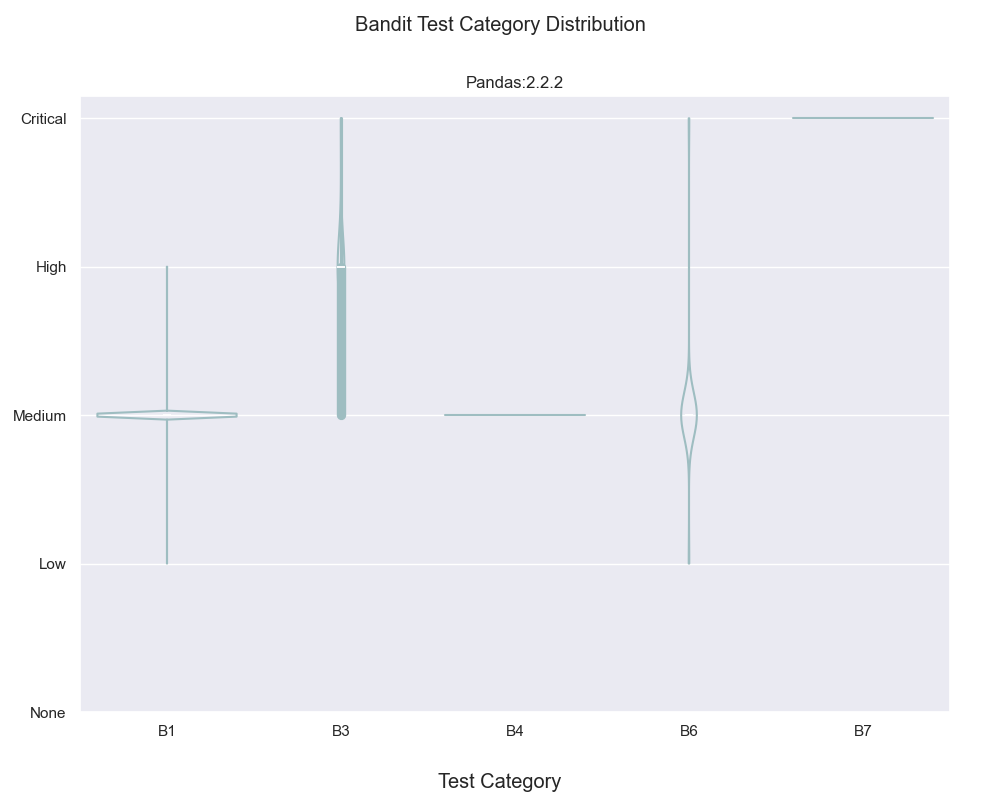
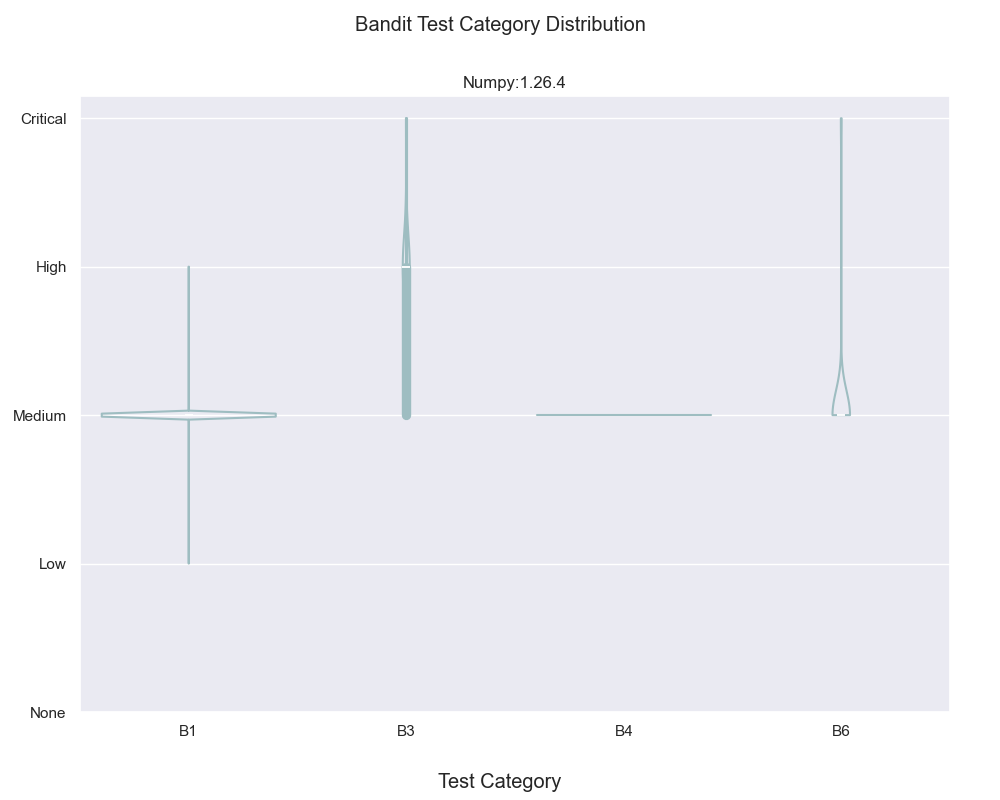
Update includes

diff --git a/output/tables/issue-distribution.tex b/output/tables/issue-distribution.tex
@@ -5,39 +5,21 @@
 \toprule
 Project & Release & Test Id & Count & Low & Medium & High & Critical \\
 \midrule
-\texttt{pandas} & \texttt{pytz} & \texttt{B101} & $5$ ($0.16\%$) & $0$ & $0$ & $5$ ($0.16\%$) & $0$ \\
-\texttt{pandas} & \texttt{pandas} & \texttt{B101} & $455$ ($14.16\%$) & $0$ & $0$ & $455$ ($14.16\%$) & $0$ \\
-\texttt{pandas} & \texttt{numpy} & \texttt{B101} & $2396$ ($74.57\%$) & $0$ & $0$ & $2396$ ($74.57\%$) & $0$ \\
-\texttt{pandas} & \texttt{numpy} & \texttt{B102} & $3$ ($0.09\%$) & $0$ & $3$ ($0.09\%$) & $0$ & $0$ \\
-\texttt{pandas} & \texttt{numpy} & \texttt{B105} & $1$ ($0.03\%$) & $0$ & $0$ & $0$ & $1$ ($0.03\%$) \\
-\texttt{pandas} & \texttt{pandas} & \texttt{B110} & $3$ ($0.09\%$) & $0$ & $0$ & $3$ ($0.09\%$) & $0$ \\
-\texttt{pandas} & \texttt{numpy} & \texttt{B110} & $23$ ($0.72\%$) & $0$ & $0$ & $23$ ($0.72\%$) & $0$ \\
-\texttt{pandas} & \texttt{pandas} & \texttt{B301} & $2$ ($0.06\%$) & $0$ & $2$ ($0.06\%$) & $0$ & $0$ \\
-\texttt{pandas} & \texttt{numpy} & \texttt{B301} & $12$ ($0.37\%$) & $0$ & $12$ ($0.37\%$) & $0$ & $0$ \\
-\texttt{pandas} & \texttt{numpy} & \texttt{B307} & $44$ ($1.37\%$) & $0$ & $44$ ($1.37\%$) & $0$ & $0$ \\
-\texttt{pandas} & \texttt{numpy} & \texttt{B310} & $2$ ($0.06\%$) & $0$ & $2$ ($0.06\%$) & $0$ & $0$ \\
-\texttt{pandas} & \texttt{pandas} & \texttt{B310} & $1$ ($0.03\%$) & $0$ & $1$ ($0.03\%$) & $0$ & $0$ \\
-\texttt{pandas} & \texttt{numpy} & \texttt{B311} & $52$ ($1.62\%$) & $0$ & $0$ & $52$ ($1.62\%$) & $0$ \\
-\texttt{pandas} & \texttt{pandas} & \texttt{B314} & $2$ ($0.06\%$) & $0$ & $2$ ($0.06\%$) & $0$ & $0$ \\
-\texttt{pandas} & \texttt{pandas} & \texttt{B318} & $1$ ($0.03\%$) & $0$ & $1$ ($0.03\%$) & $0$ & $0$ \\
-\texttt{pandas} & \texttt{pandas} & \texttt{B320} & $4$ ($0.12\%$) & $0$ & $4$ ($0.12\%$) & $0$ & $0$ \\
-\texttt{pandas} & \texttt{numpy} & \texttt{B324} & $4$ ($0.12\%$) & $4$ ($0.12\%$) & $0$ & $0$ & $0$ \\
-\texttt{pandas} & \texttt{pandas} & \texttt{B403} & $5$ ($0.16\%$) & $0$ & $0$ & $5$ ($0.16\%$) & $0$ \\
-\texttt{pandas} & \texttt{pytz} & \texttt{B403} & $2$ ($0.06\%$) & $0$ & $0$ & $2$ ($0.06\%$) & $0$ \\
-\texttt{pandas} & \texttt{numpy} & \texttt{B403} & $11$ ($0.34\%$) & $0$ & $0$ & $11$ ($0.34\%$) & $0$ \\
-\texttt{pandas} & \texttt{numpy} & \texttt{B404} & $40$ ($1.24\%$) & $0$ & $0$ & $40$ ($1.24\%$) & $0$ \\
-\texttt{pandas} & \texttt{pandas} & \texttt{B404} & $3$ ($0.09\%$) & $0$ & $0$ & $3$ ($0.09\%$) & $0$ \\
-\texttt{pandas} & \texttt{pandas} & \texttt{B405} & $6$ ($0.19\%$) & $0$ & $0$ & $6$ ($0.19\%$) & $0$ \\
-\texttt{pandas} & \texttt{pandas} & \texttt{B408} & $1$ ($0.03\%$) & $0$ & $0$ & $1$ ($0.03\%$) & $0$ \\
-\texttt{pandas} & \texttt{pandas} & \texttt{B410} & $9$ ($0.28\%$) & $0$ & $0$ & $9$ ($0.28\%$) & $0$ \\
-\texttt{pandas} & \texttt{numpy} & \texttt{B602} & $3$ ($0.09\%$) & $3$ ($0.09\%$) & $0$ & $0$ & $0$ \\
-\texttt{pandas} & \texttt{numpy} & \texttt{B603} & $63$ ($1.96\%$) & $0$ & $0$ & $63$ ($1.96\%$) & $0$ \\
-\texttt{pandas} & \texttt{pandas} & \texttt{B603} & $15$ ($0.47\%$) & $0$ & $0$ & $15$ ($0.47\%$) & $0$ \\
-\texttt{pandas} & \texttt{numpy} & \texttt{B605} & $3$ ($0.09\%$) & $1$ ($0.03\%$) & $0$ & $2$ ($0.06\%$) & $0$ \\
-\texttt{pandas} & \texttt{numpy} & \texttt{B607} & $25$ ($0.78\%$) & $0$ & $0$ & $25$ ($0.78\%$) & $0$ \\
-\texttt{pandas} & \texttt{pandas} & \texttt{B607} & $11$ ($0.34\%$) & $0$ & $0$ & $11$ ($0.34\%$) & $0$ \\
-\texttt{pandas} & \texttt{pandas} & \texttt{B608} & $4$ ($0.12\%$) & $0$ & $0$ & $0$ & $4$ ($0.12\%$) \\
-\texttt{pandas} & \texttt{pandas} & \texttt{B701} & $2$ ($0.06\%$) & $2$ ($0.06\%$) & $0$ & $0$ & $0$ \\
+\texttt{numpy} & \texttt{numpy} & \texttt{B101} & $2396$ ($89.34\%$) & $0$ & $0$ & $2396$ ($89.34\%$) & $0$ \\
+\texttt{numpy} & \texttt{numpy} & \texttt{B102} & $3$ ($0.11\%$) & $0$ & $3$ ($0.11\%$) & $0$ & $0$ \\
+\texttt{numpy} & \texttt{numpy} & \texttt{B105} & $1$ ($0.04\%$) & $0$ & $0$ & $0$ & $1$ ($0.04\%$) \\
+\texttt{numpy} & \texttt{numpy} & \texttt{B110} & $23$ ($0.86\%$) & $0$ & $0$ & $23$ ($0.86\%$) & $0$ \\
+\texttt{numpy} & \texttt{numpy} & \texttt{B301} & $12$ ($0.45\%$) & $0$ & $12$ ($0.45\%$) & $0$ & $0$ \\
+\texttt{numpy} & \texttt{numpy} & \texttt{B307} & $44$ ($1.64\%$) & $0$ & $44$ ($1.64\%$) & $0$ & $0$ \\
+\texttt{numpy} & \texttt{numpy} & \texttt{B310} & $2$ ($0.07\%$) & $0$ & $2$ ($0.07\%$) & $0$ & $0$ \\
+\texttt{numpy} & \texttt{numpy} & \texttt{B311} & $52$ ($1.94\%$) & $0$ & $0$ & $52$ ($1.94\%$) & $0$ \\
+\texttt{numpy} & \texttt{numpy} & \texttt{B324} & $4$ ($0.15\%$) & $4$ ($0.15\%$) & $0$ & $0$ & $0$ \\
+\texttt{numpy} & \texttt{numpy} & \texttt{B403} & $11$ ($0.41\%$) & $0$ & $0$ & $11$ ($0.41\%$) & $0$ \\
+\texttt{numpy} & \texttt{numpy} & \texttt{B404} & $40$ ($1.49\%$) & $0$ & $0$ & $40$ ($1.49\%$) & $0$ \\
+\texttt{numpy} & \texttt{numpy} & \texttt{B602} & $3$ ($0.11\%$) & $3$ ($0.11\%$) & $0$ & $0$ & $0$ \\
+\texttt{numpy} & \texttt{numpy} & \texttt{B603} & $63$ ($2.35\%$) & $0$ & $0$ & $63$ ($2.35\%$) & $0$ \\
+\texttt{numpy} & \texttt{numpy} & \texttt{B605} & $3$ ($0.11\%$) & $1$ ($0.04\%$) & $0$ & $2$ ($0.07\%$) & $0$ \\
+\texttt{numpy} & \texttt{numpy} & \texttt{B607} & $25$ ($0.93\%$) & $0$ & $0$ & $25$ ($0.93\%$) & $0$ \\
 \bottomrule
 \end{tabular}
 \end{table}

diff --git a/src/depsec/utils/giterate.py b/src/depsec/utils/giterate.py
@@ -136,6 +136,25 @@ def find_main_package(project: Project, repo_path: str | Path):
     return main_package
 
 
+def get_includes(project_name: str, repo_path: Path):
+    """
+    Get the includes for a project
+    """
+    repo_path = Path(repo_path).absolute()
+    # get files and directories in the repository
+    fildirs = [ f for f in glob.glob(f"{repo_path}/*", recursive=False) ]
+    includes = ['src/']
+    for fildir in fildirs:
+        fildir = Path(fildir)
+        stem = fildir.stem
+        if stem.lower() in project_name.lower():
+            if fildir.is_file():
+                includes.append(fildir.name)
+            else:
+                includes.append(f"{fildir.name}/")
+    return includes
+
+
 def run_analysis(project: Project, repos_dir: Path, *v_or_rel: str | Release, temp_dir: Path = '/tmp', lizard: bool = True, bandit: bool = True, limit: int = None):
     """
     Analyse a project with lizard and bandit
@@ -144,9 +163,17 @@ def run_analysis(project: Project, repos_dir: Path, *v_or_rel: str | Release, te
     project_name = project.name.lower()
     tag_regex = project.tag_regex
 
+    platform = project.platform.lower()
+
+    # this should be done already, connect to the repo
+    repo, repo_path = clone_repo(project, repos_dir)
+    if repo is None:
+        logger.error(f"Failed to clone {project_name}, skipping...")
+        return
+
     includes = project.includes
     if type(includes) == str:
-        includes = [ incl.strip() for incl in includes.split(',') ]
+        includes = get_includes(project_name, repo_path)
     elif includes is None:
         # follows standard Python package structure
         includes = ['src/', f"{project_name}/", f"{project_name}.py"]
@@ -154,11 +181,6 @@ def run_analysis(project: Project, repos_dir: Path, *v_or_rel: str | Release, te
     if type(excludes) == str:
         excludes = [ excl.strip() for excl in excludes.split(',') ]
 
-    # this should be done already, connect to the repo
-    repo, repo_path = clone_repo(project, repos_dir)
-    if repo is None:
-        logger.error(f"Failed to clone {project_name}, skipping...")
-        return
     follows_standard = False
     for incl in includes:
         if (repo_path / incl).exists():
@@ -199,13 +221,13 @@ def run_analysis(project: Project, repos_dir: Path, *v_or_rel: str | Release, te
     if not project.excludes and excludes:
         project.excludes = ','.join(list(map(str, excludes)))
     project.save()
-    count = 0
+    processed_count = 0
     for version in sorted(version_iter, key=semver.parse, reverse=True):
-        count += 1
-        if limit and count > limit:
+        processed_count += 1
+        print(f"Processing {project_name}:{version} ({processed_count}/{len(version_iter) if limit is None else limit})...")
+        if (limit and limit > 0) and processed_count > limit:
             logger.debug(f"Limit reached, stopping at {limit} versions")
             break
-        print(f"Processing {project_name}:{version}...")
         release: Release = rels.get(version)
         if release is None:
             logger.warning(f"Release '{version}' for {project_name} not found by metadata, ignoring")
@@ -232,7 +254,8 @@ def run_analysis(project: Project, repos_dir: Path, *v_or_rel: str | Release, te
             release.includes = incl_str
         release.save()
         if lizard:
-            res = run_lizard(repo_path, includes, excludes)
+            file_ext = '.js|.ts' if project.platform == 'npm' else '.py'
+            res = run_lizard(repo_path, includes, excludes, file_ext=file_ext)
             nloc = res.get('nloc')
             avg_nloc = res.get('nloc_average')
             avg_ccn = res.get('ccn_average')
@@ -245,6 +268,9 @@ def run_analysis(project: Project, repos_dir: Path, *v_or_rel: str | Release, te
             release.ccn_average = round(avg_ccn, 2) if avg_ccn is not None else None
             logger.info(f"{project_name}:{version}, files: {files_counted}, NLOC {nloc}")
         if bandit:
+            if platform != 'pypi':
+                logger.error(f"Error: Bandit is only supported for PyPI projects, skipping {project_name}:{version}")
+                continue
             reports = BanditReport.select().where(BanditReport.release == release)
             for report in reports:
                 report.delete_instance()

diff --git a/src/depsec/aggregator.py b/src/depsec/aggregator.py
@@ -244,7 +244,7 @@ class Aggregator:
         # Query libraries.io if the package is not in the database
         logger.debug(f"Querying libraries.io for {project_name}")
         time.sleep(1)
-        result: dict = self.libraries.query_package(project_name)
+        result: dict = self.libraries.query_package(project_name, platform=platform)
         if result is None:
             logger.error(f"Project {project_name} not found in libraries.io")
             return None
@@ -300,6 +300,8 @@ class Aggregator:
             project.latest_release = latest_release.version
             project.save()
         self._verify_dates(project)
+        if platform not in self.__analysed_projects:
+            self.__analysed_projects[platform] = {}
         self.__analysed_projects[platform][name] = project_to_config(project)
         return project
     
@@ -1921,12 +1923,13 @@ class Aggregator:
                 cve_ids.add(cve.cve_id)
         return cves
     
-    def _analyse(self, project: str | Project, *releases: str | Release,  platform: str="pypi", prompt: bool = True, limit: int = None) -> dict:
+    def _analyse(self, project: str | Project, *releases: str | Release,  platform: str="pypi", prompt: bool = True, limit: int = None, lizard: bool = True, bandit: bool = True) -> dict:
         """
         Statically analyses a project's releases
 
         project: str | Project: The project name or object
         """
+        platform = project.platform if type(project) == Project else platform
         project = self.get_project(project, platform)
         # clone the repository
         repo, repo_path = giterate.clone_repo(project, self.__repos_dir)
@@ -1945,7 +1948,7 @@ class Aggregator:
             if update:
                 project.tag_regex = tag_regex
                 project.save()
-        giterate.run_analysis(project, self.__repos_dir, *releases, limit=limit)
+        giterate.run_analysis(project, self.__repos_dir, *releases, limit=limit, lizard=lizard, bandit=bandit)
 
     def get_all_deps(self, project: str | Project, platform: str="pypi") -> dict:
         """
@@ -1966,16 +1969,25 @@ class Aggregator:
                 results.append(depproj)
         return results
     
-    def _analyse_deps(self, project: str | Project, platform: str="pypi", prompt: bool = True, limit: int = None) -> dict:
+    def _analyse_all(self, project: str | Project, platform: str="pypi", prompt: bool = True, limit: int = None) -> dict:
         """
         Statically analyses a project's dependencies
 
         project: str | Project: The project name or object
         """
         project = self.get_project(project, platform)
-        deps = self.get_all_deps(project)
+        rel = self.get_release(project, platform=platform, analysed=True)
+        if rel is not None and (not prompt or input('Re-analyse project? [Y/n] ').lower() != 'n'):
+            ag._analyse(project, platform=platform, prompt=prompt, limit=limit)
+        deps = self.get_dependencies(project, platform=platform)
         for dep in deps:
-            self._analyse(dep.name, platform=dep.platform, prompt=prompt, limit=limit)
+            rel = self.get_release(dep.name, dep.version, platform=dep.platform, requirements=dep.requirements, analysed=True)
+            if rel is not None:
+                print(f"Project seems to be analysed: {project.name}:{rel.version} has {rel.nloc_total} NLOC")
+                if not prompt or input('Skip? [Y/n] ').lower() != 'n':
+                    continue
+            rels = self.get_releases(dep.name, platform=dep.platform, requirements=dep.requirements)
+            self._analyse(dep.name, *rels, platform=project.platform, prompt=prompt, limit=limit)
     
     def _search_vendor(self, project: Project | str, platform: str="pypi") -> List[str]:
         """

diff --git a/output/tables/issue-category-distribution.tex b/output/tables/issue-category-distribution.tex
@@ -5,21 +5,10 @@
 \toprule
 Project & Release & Test Category & Count & Low & Medium & High & Critical \\
 \midrule
-\texttt{pandas} & \texttt{pytz} & \texttt{B1} & $5$ ($0.16\%$) & $0$ & $0$ & $5$ ($0.16\%$) & $0$ \\
-\texttt{pandas} & \texttt{pandas} & \texttt{B1} & $458$ ($14.25\%$) & $0$ & $0$ & $458$ ($14.25\%$) & $0$ \\
-\texttt{pandas} & \texttt{numpy} & \texttt{B1} & $2423$ ($75.41\%$) & $0$ & $3$ ($0.09\%$) & $2419$ ($75.29\%$) & $1$ ($0.03\%$) \\
-\texttt{pandas} & \texttt{numpy} & \texttt{B3} & $114$ ($3.55\%$) & $4$ ($0.12\%$) & $58$ ($1.81\%$) & $52$ ($1.62\%$) & $0$ \\
-\texttt{pandas} & \texttt{pandas} & \texttt{B3} & $10$ ($0.31\%$) & $0$ & $10$ ($0.31\%$) & $0$ & $0$ \\
-\texttt{pandas} & \texttt{pytz} & \texttt{B3} & $0$ & $0$ & $0$ & $0$ & $0$ \\
-\texttt{pandas} & \texttt{numpy} & \texttt{B4} & $51$ ($1.59\%$) & $0$ & $0$ & $51$ ($1.59\%$) & $0$ \\
-\texttt{pandas} & \texttt{pandas} & \texttt{B4} & $24$ ($0.75\%$) & $0$ & $0$ & $24$ ($0.75\%$) & $0$ \\
-\texttt{pandas} & \texttt{pytz} & \texttt{B4} & $2$ ($0.06\%$) & $0$ & $0$ & $2$ ($0.06\%$) & $0$ \\
-\texttt{pandas} & \texttt{numpy} & \texttt{B6} & $94$ ($2.93\%$) & $4$ ($0.12\%$) & $0$ & $90$ ($2.80\%$) & $0$ \\
-\texttt{pandas} & \texttt{pandas} & \texttt{B6} & $30$ ($0.93\%$) & $0$ & $0$ & $26$ ($0.81\%$) & $4$ ($0.12\%$) \\
-\texttt{pandas} & \texttt{pytz} & \texttt{B6} & $0$ & $0$ & $0$ & $0$ & $0$ \\
-\texttt{pandas} & \texttt{pandas} & \texttt{B7} & $2$ ($0.06\%$) & $2$ ($0.06\%$) & $0$ & $0$ & $0$ \\
-\texttt{pandas} & \texttt{numpy} & \texttt{B7} & $0$ & $0$ & $0$ & $0$ & $0$ \\
-\texttt{pandas} & \texttt{pytz} & \texttt{B7} & $0$ & $0$ & $0$ & $0$ & $0$ \\
+\texttt{numpy} & \texttt{numpy} & \texttt{B1} & $2423$ ($90.34\%$) & $0$ & $3$ ($0.11\%$) & $2419$ ($90.19\%$) & $1$ ($0.04\%$) \\
+\texttt{numpy} & \texttt{numpy} & \texttt{B3} & $114$ ($4.25\%$) & $4$ ($0.15\%$) & $58$ ($2.16\%$) & $52$ ($1.94\%$) & $0$ \\
+\texttt{numpy} & \texttt{numpy} & \texttt{B4} & $51$ ($1.90\%$) & $0$ & $0$ & $51$ ($1.90\%$) & $0$ \\
+\texttt{numpy} & \texttt{numpy} & \texttt{B6} & $94$ ($3.50\%$) & $4$ ($0.15\%$) & $0$ & $90$ ($3.36\%$) & $0$ \\
 \bottomrule
 \end{tabular}
 \end{table}

diff --git a/src/depsec/utils/proc.py b/src/depsec/utils/proc.py
@@ -34,7 +34,7 @@ def autoskip_file(path: Path, dir: Path = '.') -> bool:
         return True
     return False
 
-def get_files(dir: str, includes: list = None, excludes: list = None, file_pattern: str = '*.py', autoskip: bool = True) -> list:
+def get_files(dir: str, includes: list = None, excludes: list = None, file_ext: str = '.py', autoskip: bool = True) -> list:
     """
     Get all files in a directory, optionally filtered by includes and excludes.
     """
@@ -58,15 +58,18 @@ def get_files(dir: str, includes: list = None, excludes: list = None, file_patte
             print(f"Adding file '{i}' to the list.")
             files.append(i)
             continue
-        for f in i.glob(f'**/{file_pattern}'):
-            # check if is in directory test, examples, or docs
-            if autoskip and autoskip_file(f, dir):
-                continue
-            if f.is_file():
-                files.append(f)
+        file_ext = [file_ext] if '|' not in file_ext else file_ext.split('|')
+        globs = [ f'**/*{ext}' for ext in file_ext ]
+        for g in globs:
+            for f in i.glob(g):
+                # check if is in directory test, examples, or docs
+                if autoskip and autoskip_file(f, dir):
+                    continue
+                if f.is_file():
+                    files.append(f)
     return files
 
-def run_lizard(dir: str | Path, includes: list = None, excludes: list = None) -> dict:
+def run_lizard(dir: str | Path, includes: list = None, excludes: list = None, file_ext: str = '.py') -> dict:
     """
     Runs Lizard on the codebase provided.
 
@@ -74,7 +77,7 @@ def run_lizard(dir: str | Path, includes: list = None, excludes: list = None) ->
     includes: list: The filepaths to include.
     excludes: list: The filepaths to exclude (starting with the directory provided).
     """
-    files = get_files(dir, includes, excludes)
+    files = get_files(dir, includes, excludes, file_ext=file_ext)
     nloc = 0
     ccn = 0
     functions = 0

diff --git a/src/depsec/queriers/libraries.py b/src/depsec/queriers/libraries.py
@@ -64,16 +64,17 @@ class LibrariesQuerier:
         response = requests.get(url)
         return response.json()
 
-    def query_package(self, package_name: str, get_dependencies: bool=False):
+    def query_package(self, package_name: str, platform: str = 'pypi', get_dependencies: bool=False):
         """
         Query libraries.io API for a package
         package_name: The name of the package
         get_dependencies: Whether to get the package's dependencies
         """
+        platform = platform.lower()
         if self.__api_key is None:
             logger.error("API key is required")
             return Exception("API key is required")
-        url = f"{LIBRARIES_IO_API}/pypi/{package_name}?api_key={self.__api_key}"
+        url = f"{LIBRARIES_IO_API}/{platform}/{package_name}?api_key={self.__api_key}"
         logger.debug(f"Querying libraries.io for {package_name}")
         response = requests.get(url)
         if response.status_code != 200:

diff --git a/output/tables/issue-release-distribution.tex b/output/tables/issue-release-distribution.tex
@@ -5,9 +5,7 @@
 \toprule
 Project & Release & Nloc & Issues/Nloc & Count & Low & Medium & High & Critical \\
 \midrule
-\texttt{pandas} & \texttt{numpy} & 167134 & $160.5$ & $2682$ ($83.47\%$) & $8$ ($0.25\%$) & $61$ ($1.90\%$) & $2612$ ($81.29\%$) & $1$ ($0.03\%$) \\
-\texttt{pandas} & \texttt{pandas} & 183377 & $28.6$ & $524$ ($16.31\%$) & $2$ ($0.06\%$) & $10$ ($0.31\%$) & $508$ ($15.81\%$) & $4$ ($0.12\%$) \\
-\texttt{pandas} & \texttt{pytz} & 1721 & $40.7$ & $7$ ($0.22\%$) & $0$ & $0$ & $7$ ($0.22\%$) & $0$ \\
+\texttt{numpy} & \texttt{numpy} & 167134 & $160.5$ & $2682$ ($100.00\%$) & $8$ ($0.30\%$) & $61$ ($2.27\%$) & $2612$ ($97.39\%$) & $1$ ($0.04\%$) \\
 \bottomrule
 \end{tabular}
 \end{table}

diff --git a/output/tables/cve-cia-distribution.tex b/output/tables/cve-cia-distribution.tex
@@ -5,8 +5,6 @@
 \toprule
 Project & Release & Confidentiality & Integrity & Availability \\
 \midrule
-\texttt{django} & \texttt{django} & $29$ ($28.71\%$) low, $21$ ($20.79\%$) high & $33$ ($32.67\%$) low, $19$ ($18.81\%$) high & $20$ ($19.80\%$) low, $30$ ($29.70\%$) high \\
-\texttt{django} & \texttt{sqlparse} & $0$ & $0$ & $2$ ($1.98\%$) high \\
 \texttt{numpy} & \texttt{numpy} & $1$ ($12.50\%$) high & $3$ ($37.50\%$) high & $1$ ($12.50\%$) low, $5$ ($62.50\%$) high \\
 \bottomrule
 \end{tabular}

diff --git a/output/tables/cve-distribution.tex b/output/tables/cve-distribution.tex
@@ -5,8 +5,6 @@
 \toprule
 Project & Release & Count & Critical & High & Medium & Low \\
 \midrule
-\texttt{django} & \texttt{django} & $99$ ($98.02\%$) & $10$ ($9.90\%$) & $29$ ($28.71\%$) & $58$ ($57.43\%$) & $2$ ($1.98\%$) \\
-\texttt{django} & \texttt{sqlparse} & $2$ ($1.98\%$) & $0$ & $2$ ($1.98\%$) & $0$ & $0$ \\
 \texttt{numpy} & \texttt{numpy} & $8$ ($100.00\%$) & $1$ ($12.50\%$) & $1$ ($12.50\%$) & $6$ ($75.00\%$) & $0$ \\
 \bottomrule
 \end{tabular}
